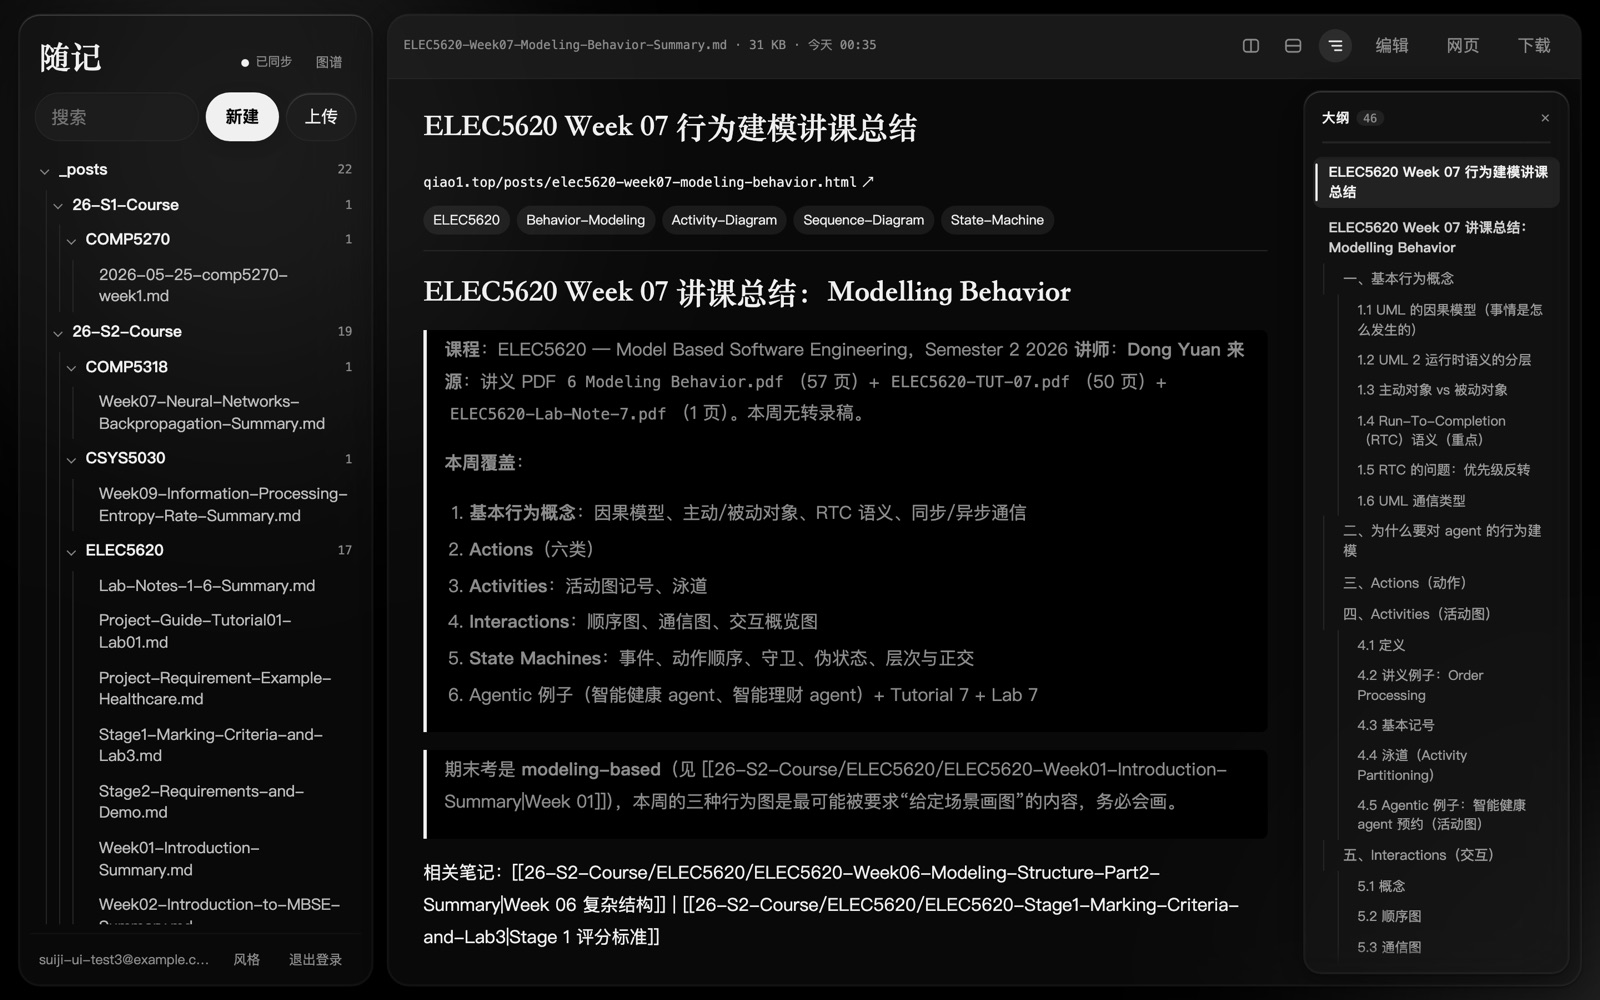
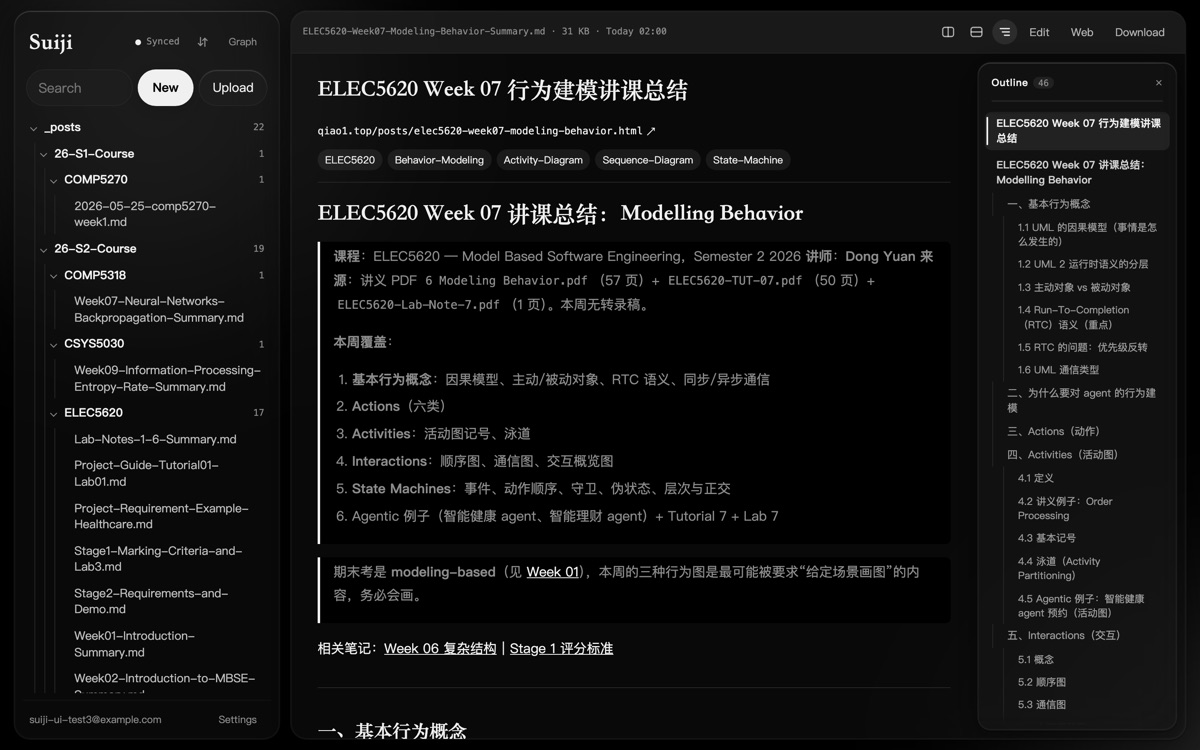
README: new screenshots of every style in light and dark, the graph per style; tidy the sidebar header and pane bar
- Sync state, sort and graph share one centre line; sort and graph sit as a pair.
- Pane bar text buttons at 13px with even spacing and stronger colour, so the
  row reads as one toolbar (it looked loose in Paper, light and dark).

diff --git a/public/style.css b/public/style.css
@@ -153,8 +153,8 @@ input[type="search"]:focus, input[type="email"]:focus, input[type="password"]:fo
 }
 .search { flex: 1; }
 /* Sort: an icon button with the native picker laid over it, so phones get their own menu. */
-.sort-btn { position: relative; display: grid; place-items: center; flex: 0 0 auto; align-self: center; width: 30px; height: 26px; padding: 0; }
-.sort-btn svg { width: 16px; height: 16px; fill: none; stroke: currentColor; stroke-width: 1.6; stroke-linecap: round; stroke-linejoin: round; }
+.sort-btn { position: relative; display: grid; place-items: center; flex: 0 0 auto; width: 26px; height: 24px; padding: 0; }
+.sort-btn svg { width: 14px; height: 14px; fill: none; stroke: currentColor; stroke-width: 1.6; stroke-linecap: round; stroke-linejoin: round; }
 .sort-btn select { position: absolute; inset: 0; width: 100%; height: 100%; opacity: 0; cursor: pointer; font-size: 16px; }
 .btn-primary {
   border: 0; border-radius: 999px; padding: 9px 18px; background: var(--accent); color: var(--on-accent); font-weight: 600;
@@ -171,11 +171,16 @@ input[type="search"]:focus, input[type="email"]:focus, input[type="password"]:fo
 .foot button { flex-shrink: 0; white-space: nowrap; }
 
 .editor { overflow: hidden; }
-.ebar { display: flex; align-items: center; gap: 8px; padding: 10px 14px; border-bottom: 1px solid var(--rim-low); background: var(--glass-strong); }
+.ebar { display: flex; align-items: center; gap: 4px; padding: 10px 14px; border-bottom: 1px solid var(--rim-low); background: var(--glass-strong); }
 .ebar .meta { flex: 1; min-width: 0; overflow: hidden; text-overflow: ellipsis; white-space: nowrap; font-family: var(--font-mono); font-size: 11px; color: var(--muted); }
 .ghost { border: 1px solid transparent; background: transparent; border-radius: 999px; padding: 6px 12px; color: var(--muted); }
 .ghost:hover { background: var(--accent-soft); color: var(--ink); }
 .ghost.small { padding: 3px 8px; font-size: 12px; }
+/* Text buttons in a pane's bar sit at the size of its icons, evenly spaced, so the row reads as one toolbar. */
+.ebar .ghost:not(.icon) { padding: 5px 10px; font-size: 13px; line-height: 18px; }
+.ebar .ghost { color: color-mix(in srgb, var(--ink) 72%, transparent); }
+.ebar .ghost:hover { color: var(--ink); }
+.ebar .meta { margin-right: 4px; }
 .ghost.danger:hover, .ghost.danger.armed { color: var(--danger); border-color: var(--danger); }
 .back { display: none; }
 textarea {
@@ -409,7 +414,10 @@ textarea {
 .graph-btn { margin-left: auto; }
 .head .sync { margin-left: auto; }
 .head .sync + .graph-btn, .head .sync + .sort-btn + .graph-btn { margin-left: 0; }
-.head .sort-btn + .graph-btn { margin-left: -8px; }
+/* Sync state, sort and graph share one centre line; sort and graph sit together as a pair. */
+.head .sync, .head .sort-btn, .head .graph-btn { align-self: center; }
+.head .graph-btn { height: 24px; display: inline-flex; align-items: center; }
+.head .sort-btn + .graph-btn { margin-left: -10px; }
 .preview > .graph { position: relative; align-self: stretch; justify-self: stretch; width: 100%; height: 100%; min-height: 0; overflow: hidden; }
 .graph-canvas { display: block; width: 100%; height: 100%; touch-action: none; cursor: grab; }
 .graph-tools { position: absolute; top: 10px; right: 10px; z-index: 1; display: flex; gap: 6px; }

diff --git a/README.md b/README.md
@@ -14,11 +14,19 @@
 ![macOS](https://img.shields.io/badge/macOS-native%20app-black?style=flat-square&logo=apple)
 ![Supabase](https://img.shields.io/badge/data-Supabase-3ECF8E?style=flat-square&logo=supabase&logoColor=white)
 
-<img src="docs/style-glass.jpg" width="820" alt="A document with its outline">
+<img src="docs/style-glass-light.jpg" width="820" alt="A document with its outline">
 
-<img src="docs/style-glass-dark.jpg" width="200" alt="Glass, dark">&nbsp;<img src="docs/style-paper.jpg" width="200" alt="Paper">&nbsp;<img src="docs/style-terminal.jpg" width="200" alt="Terminal">&nbsp;<img src="docs/style-blocks.jpg" width="200" alt="Blocks">
+<img src="docs/style-glass-light.jpg" width="200" alt="Glass · light">&nbsp;<img src="docs/style-paper-light.jpg" width="200" alt="Paper · light">&nbsp;<img src="docs/style-terminal-light.jpg" width="200" alt="Terminal · light">&nbsp;<img src="docs/style-blocks-light.jpg" width="200" alt="Blocks · light">
 
-<img src="docs/phone-list.jpg" width="200" alt="Folder tree on a phone">&nbsp;&nbsp;<img src="docs/phone-doc.jpg" width="200" alt="A document on a phone">
+<img src="docs/style-glass-dark.jpg" width="200" alt="Glass · dark">&nbsp;<img src="docs/style-paper-dark.jpg" width="200" alt="Paper · dark">&nbsp;<img src="docs/style-terminal-dark.jpg" width="200" alt="Terminal · dark">&nbsp;<img src="docs/style-blocks-dark.jpg" width="200" alt="Blocks · dark">
+
+<sub>Glass, Paper, Terminal and Blocks, each in light (top) and dark (bottom)</sub>
+
+<img src="docs/graph-glass.jpg" width="200" alt="Graph · Glass">&nbsp;<img src="docs/graph-paper.jpg" width="200" alt="Graph · Paper">&nbsp;<img src="docs/graph-terminal.jpg" width="200" alt="Graph · Terminal">&nbsp;<img src="docs/graph-blocks.jpg" width="200" alt="Graph · Blocks">
+
+<sub>The relationship graph in each style</sub>
+
+<img src="docs/phone-list.jpg" width="200" alt="Folder tree on a phone">&nbsp;&nbsp;<img src="docs/phone-doc.jpg" width="200" alt="A document on a phone">&nbsp;&nbsp;<img src="docs/phone-terminal.jpg" width="200" alt="Terminal style on a phone">
 
 </div>
 
@@ -106,4 +114,5 @@ To release a new build: raise `BUILD` in `mac/build.sh`, run it with `--publish`
 - The menu bar item shows whether the folder agent is running, and has 立即同步 (sync now), the synced folder and the sync log. Links to other sites open in your default browser, and downloads go to `~/Downloads`.
 - The folder agent skips hidden files, `node_modules` and `.git`, and does not upload files over 50 MB. Settings, state and the log live in `~/.suiji/`; the log is `~/.suiji/sync.log`.
 - Storage can serve the previous copy of a file for a while after an upload, through a URL signed earlier. So reads use freshly signed URLs and must match the size in the row.
-- Styles are saved per device. 方块 loads two pixel fonts from Google Fonts, and only when it is picked.
+- The interface is in Chinese or English (设置 → 语言; by default it follows the system), and the Mac app's menus follow it.
+- Styles, light / dark and the sort order are saved per device. 方块 loads two pixel fonts from Google Fonts, and only when it is picked.

diff --git a/README.zh-CN.md b/README.zh-CN.md
@@ -14,11 +14,19 @@
 ![macOS](https://img.shields.io/badge/macOS-原生%20App-black?style=flat-square&logo=apple)
 ![Supabase](https://img.shields.io/badge/数据-Supabase-3ECF8E?style=flat-square&logo=supabase&logoColor=white)
 
-<img src="docs/style-glass.jpg" width="820" alt="文档和它的大纲">
+<img src="docs/style-glass-light.jpg" width="820" alt="文档和它的大纲">
 
-<img src="docs/style-glass-dark.jpg" width="200" alt="玻璃·深色">&nbsp;<img src="docs/style-paper.jpg" width="200" alt="纸张">&nbsp;<img src="docs/style-terminal.jpg" width="200" alt="终端">&nbsp;<img src="docs/style-blocks.jpg" width="200" alt="方块">
+<img src="docs/style-glass-light.jpg" width="200" alt="玻璃 · 浅色">&nbsp;<img src="docs/style-paper-light.jpg" width="200" alt="纸张 · 浅色">&nbsp;<img src="docs/style-terminal-light.jpg" width="200" alt="终端 · 浅色">&nbsp;<img src="docs/style-blocks-light.jpg" width="200" alt="方块 · 浅色">
 
-<img src="docs/phone-list.jpg" width="200" alt="手机上的目录树">&nbsp;&nbsp;<img src="docs/phone-doc.jpg" width="200" alt="手机上的文档">
+<img src="docs/style-glass-dark.jpg" width="200" alt="玻璃 · 深色">&nbsp;<img src="docs/style-paper-dark.jpg" width="200" alt="纸张 · 深色">&nbsp;<img src="docs/style-terminal-dark.jpg" width="200" alt="终端 · 深色">&nbsp;<img src="docs/style-blocks-dark.jpg" width="200" alt="方块 · 深色">
+
+<sub>玻璃、纸张、终端、方块，上排浅色，下排深色</sub>
+
+<img src="docs/graph-glass.jpg" width="200" alt="图谱 · 玻璃">&nbsp;<img src="docs/graph-paper.jpg" width="200" alt="图谱 · 纸张">&nbsp;<img src="docs/graph-terminal.jpg" width="200" alt="图谱 · 终端">&nbsp;<img src="docs/graph-blocks.jpg" width="200" alt="图谱 · 方块">
+
+<sub>各风格下的关系图谱</sub>
+
+<img src="docs/phone-list.jpg" width="200" alt="手机上的目录树">&nbsp;&nbsp;<img src="docs/phone-doc.jpg" width="200" alt="手机上的文档">&nbsp;&nbsp;<img src="docs/phone-terminal.jpg" width="200" alt="手机上的终端风格">
 
 </div>
 
@@ -106,4 +114,5 @@ npx vercel deploy --prod
 - 菜单栏图标显示同步程序是否在运行，还有「立即同步」、「打开同步的文件夹」和「查看同步日志」。指向其他网站的链接会用默认浏览器打开，下载的文件存到「下载」文件夹。
 - 同步程序会跳过隐藏文件、`node_modules` 和 `.git`，超过 50 MB 的文件不上传。配置、状态和日志都在 `~/.suiji/`，日志是 `~/.suiji/sync.log`。
 - 上传后，用之前签发的链接去读，存储可能还会返回旧内容一段时间。所以读取时用新签发的链接，并核对文件大小是否和记录一致。
-- 风格按设备分别保存。选「方块」时才会从 Google Fonts 加载两款像素字体。
+- 界面有中文和英文（设置 → 语言，默认跟随系统），Mac App 的菜单也会跟着变。
+- 风格、明暗和排序方式按设备分别保存。选「方块」时才会从 Google Fonts 加载两款像素字体。
